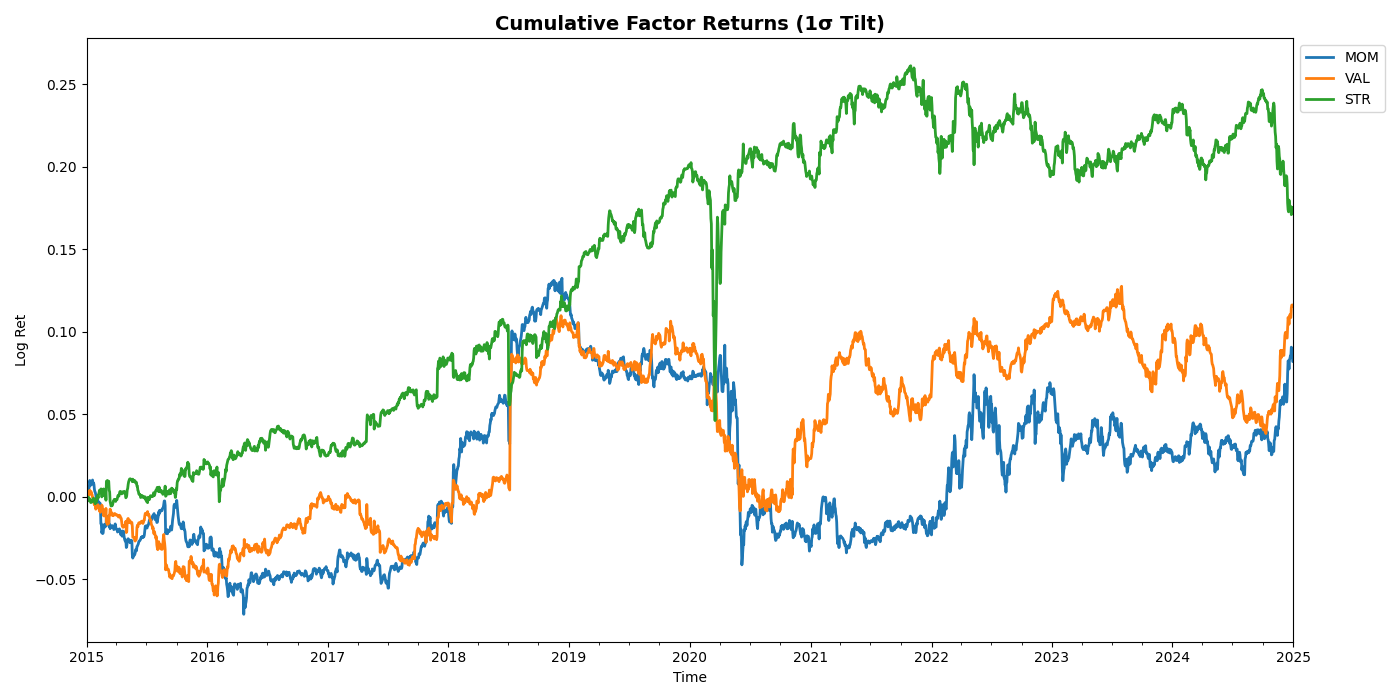
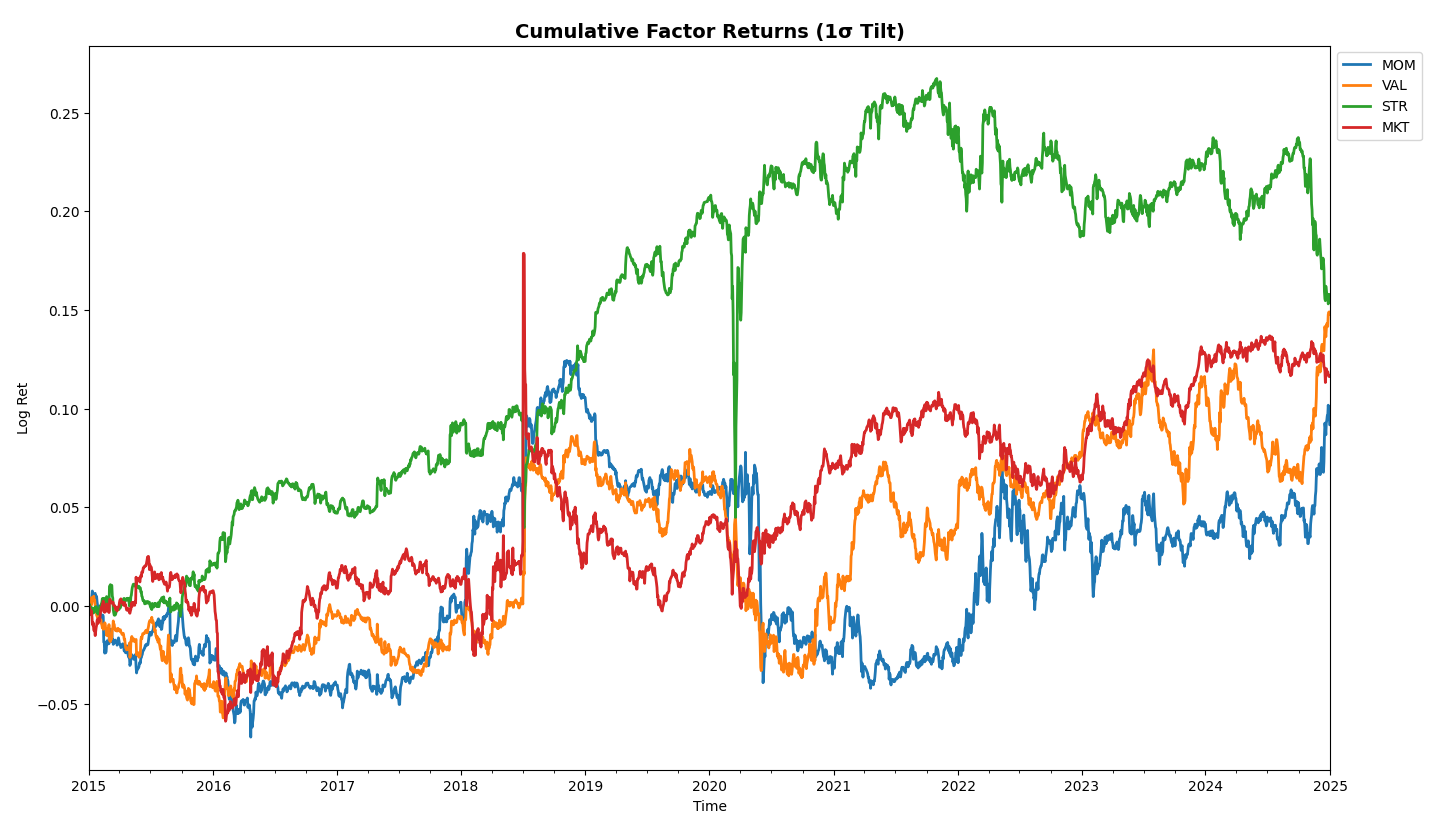
Add files via upload

diff --git a/main.py b/main.py
@@ -190,7 +190,7 @@ class Processor:
         days = df.select(pl.col("date").n_unique()).item()
         symbols = df.select(pl.col("symbol").n_unique()).item()
         print(f"[INFO]Running cross-sectional regressions across {days:,} days and {symbols} assets: ")
-        print(f"[INFO]{len(factors)} composite factors against {len(risk_factors['categorical'])} categorical and {len(risk_factors['numerical'])} numerical risk factors")
+        print(f"[INFO]Neutralising {len(factors)} factors against {len(risk_factors['categorical'])} categorical and {len(risk_factors['numerical'])} numerical risk factors")
         
         def _cross_sectional_regression(group_df):
             beta = self.train_regression(group_df, X_cols, y_cols)
@@ -229,10 +229,37 @@ class Processor:
             .pipe(self.median_imputation, factors)
         )
 
+    def add_mkt_beta(self, df, benchmark):
+        min_obs = 0.8
+        vol_days = 3 * 252
+        corr_days = 5 * 252
+        b = 1
+        k = 0.33
+        
+        return (
+            df.sort(["symbol", "date"])
+            .join(benchmark, on="date", how="left")
+            .with_columns([
+                pl.col("log_ret").rolling_std(vol_days, min_samples=int(vol_days * min_obs))
+                  .over("symbol").alias("asset_vol"),
+                pl.col("mkt_ret").rolling_std(vol_days, min_samples=int(vol_days * min_obs))
+                  .over("symbol").alias("mkt_vol"),
+                pl.rolling_corr(pl.col("log_ret"), pl.col("mkt_ret"), window_size=corr_days, min_samples=int(corr_days * min_obs))
+                  .over("symbol").alias("corr")
+            ])
+            .with_columns( #cov/vol equivalent to specific case of OLS
+                MKT = (pl.col("corr") * (pl.col("asset_vol") / pl.col("mkt_vol"))) * (1-k) + k * b #bayesian shrinkage
+            )
+            .drop(["mkt_ret", "asset_vol", "mkt_vol", "corr"])
+        )
+
+
 #-----//Params//-----
-start_date = date(2000, 1, 1)
+start_date = date(2015, 1, 1)
+end_date = date(2025, 1, 1)
 rng = np.random.default_rng(seed=42)
 symbols = rng.choice(sp500_tickers, size=1, replace=False)
+benchmark_symbol = "MSCI"
 
 factor_defs = {
     "MOM": [["UMD_12_1", "UMD_6_1", "UMD_3_1"], 21, 1], 
@@ -263,7 +290,7 @@ his_schema = {
 }
 
 categories = [c for c in pf_schema.keys() if c not in ["symbol", "ts"]]
-composite_factors = list(factor_defs.keys())
+composite_factors = list(factor_defs.keys())+["MKT"]
 risk_factors = {"categorical": categories, "numerical": []}
 
 
@@ -285,6 +312,8 @@ if 1==1:
     #loader.compact_data("History", his_schema)
 
     lf = processor.log_transform(his.collect())
+    benchmark = (lf.filter(pl.col("symbol") == benchmark_symbol).select([pl.col("date"), pl.col("log_ret").alias("mkt_ret")]))
+    lf = lf.filter(pl.col("symbol")!=benchmark_symbol)
     ret = lf.collect()
 
     #Factor Construction
@@ -294,14 +323,15 @@ if 1==1:
             lf = processor.add_log_change(factor, lf, int(val[1])*unit, int(val[2])*unit, k=k)
     for composite, (factors, _, _) in factor_defs.items():
         lf = processor.process_components(lf, factors, composite)
+    lf = processor.add_mkt_beta(lf, benchmark)
 
     #Factor Preprocessing
-    lf = lf.filter(pl.col("date")>=start_date)
-    lf = lf.join(pf, on="symbol", how="left").sort(["date", "symbol"])
+    lf = lf.filter((pl.col("date")>=start_date) & (pl.col("date")<=end_date))
+
+    lf = lf.join(pf, on="symbol", how="left")
     lf = lf.select(["symbol", "date"]+composite_factors+sum(risk_factors.values(), []))
     lf = processor.process_composites(lf, composite_factors, risk_factors).sort(["symbol", "date"])
-
-    #plotter.plot_null_heatmap(lf.collect())
+    
     lf = lf.select(["symbol", "date"]+composite_factors)
     lf_lagged = lf.with_columns(pl.all().exclude(["symbol", "date"]).shift(1).over("symbol"))
     lf = lf_lagged.join(ret.lazy(), on=["symbol", "date"], how="left")
@@ -311,8 +341,10 @@ if 1==1:
     dirpath.mkdir(exist_ok=True, parents=True)
     
     factor_ret = processor.get_factor_returns(lf, composite_factors, ["log_ret"])
-    loader.write_data([factor_ret], dirpath)
+    #loader.write_data([factor_ret], dirpath)
+    plotter.plot_factor_performance(factor_ret, composite_factors)
 
+"""
 dirpath = Path.cwd() / "data" / "Factor_Returns"
 dirpath.mkdir(exist_ok=True, parents=True)
 df = pl.scan_parquet(dirpath / "*.parquet").drop("ts").collect()
@@ -331,7 +363,7 @@ omega = np.cov(df.select(composite_factors).to_numpy().T)
 print(omega)
 
 #unit test, smooth forward fill
-
+"""
 
 
 
